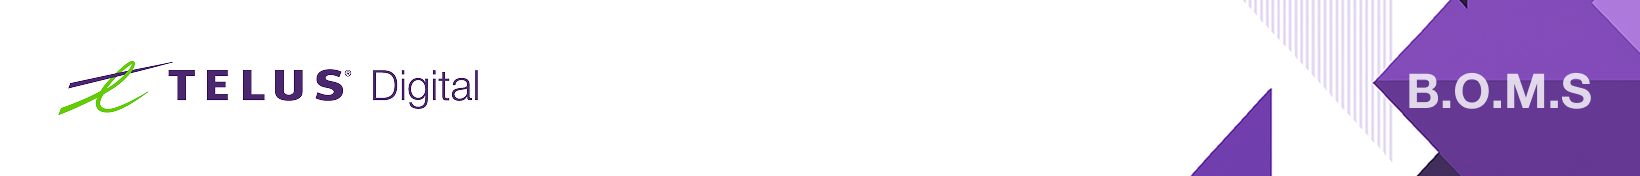
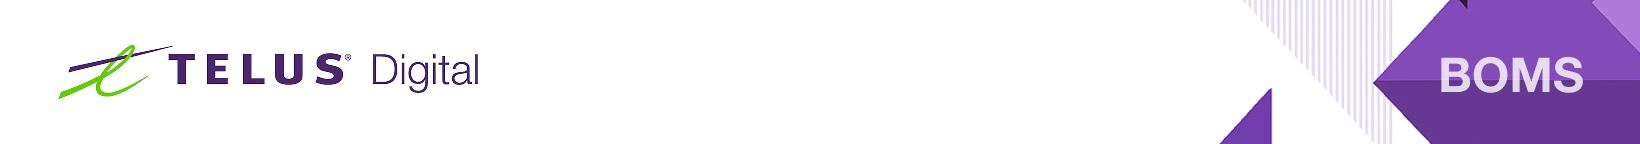
Add files via upload

diff --git a/index.html b/index.html
@@ -12,7 +12,7 @@
         </div>
 
         <!-- Header image -->
-        <img src="https://raw.githubusercontent.com/BOMS-Practice/Emailer/refs/heads/BOMS-Practice-patch-1/Header-strip.png" alt="TELUS Digital" width="100%" style="display:block; max-width:100%; height:auto;" onerror="this.style.display='none'; this.previousElementSibling.style.display='block';" />
+        <img src="https://raw.githubusercontent.com/BOMS-Practice/Emailer/refs/heads/BOMS-Practice-patch-1/Header-strip.png" alt="TELUS Digital" width="100%" style="display:block; max-width:100%; height:auto;" />
       </td>
     </tr>
 
@@ -20,7 +20,7 @@
   <td background="https://raw.githubusercontent.com/BOMS-Practice/Emailer/refs/heads/BOMS-Practice-patch-1/Flying_T_Purple_Background_3x%201.png" style="background-color:#7a5db5; background-size:cover; background-repeat:no-repeat; background-position:center; padding:0;">
     <table width="100%" cellpadding="0" cellspacing="0">
       <tr>
-        <td valign="top" align="left" style="width:70%; padding:34px 32px;">
+        <td valign="top" align="left" style="width:70%; padding:32px 24px;">
           <div style="display:inline-block; background: linear-gradient(90deg, #4B286D 0%, #E53293 100%); color:#FFF; font-family:'Helvetica Neue', Helvetica, Arial, sans-serif; font-size:14px; font-weight:500; text-align:center; padding:4px 8px; border-radius:2px;">
             # TELUS DIGITAL PRACTICE
           </div>
@@ -32,30 +32,33 @@
             Business Operations Modernization & Support
           </p>
         </td>
-        <td valign="bottom" align="right" style="width:30%; padding:0; vertical-align:bottom;">
-          <img src="https://raw.githubusercontent.com/BOMS-Practice/Emailer/refs/heads/BOMS-Practice-patch-1/PolarBear.png" width="241" height="200" style="display:block; margin-bottom:-18px; transform: scaleX(-1);" />
+        <td valign="bottom" align="right" style="width:30%; padding-right:16px; vertical-align:bottom;">
+          <img src="https://raw.githubusercontent.com/BOMS-Practice/Emailer/refs/heads/BOMS-Practice-patch-1/PolarBear.png" width="230" height="182" style="display:block; " />
         </td>
       </tr>
     </table>
   </td>
 </tr>
 
+
     <!-- Who We Are -->
     <tr>
       <td style="padding:24px 24px 0px 24px;">
         <h3 style="color:#4B286D; font-size:16px; font-family: 'Helvetica Neue', Helvetica, Arial, sans-serif; font-weight: 700; line-height: 100%; text-transform:uppercase; margin:0 0 8px;">Who Are We?</h3>
-        <p style="font-size:20px; color:#2C2E30; line-height:1.2; font-family: 'Helvetica Neue', Helvetica, Arial, sans-serif; font-weight: 400;">
+        <p style="font-size:16px; padding-right: 48px; color:#2C2E30; line-height:1.2; font-family: 'Helvetica Neue', Helvetica, Arial, sans-serif; font-weight: 400;">
           BOMS Practice delivers end-to-end services across Architecture, Solutioning, and System Engineering to build secure, scalable, and modern technology ecosystems.
-          <br><br>
+        </p>
+          <p style="font-size:16px; padding-right: 48px; color:#2C2E30; line-height:1.2; font-family: 'Helvetica Neue', Helvetica, Arial, sans-serif; font-weight: 400;">
           We align strategy with execution through consulting-led delivery, agile development, and cloud-native solutions.
-          <br><br>
+        </p>
+          <p style="font-size:16px; padding-right: 48px; color:#2C2E30; line-height:1.2; font-family: 'Helvetica Neue', Helvetica, Arial, sans-serif; font-weight: 400;">
           With 24x7 support and legacy modernization via microservices, APIs, and cloud, we drive enterprise agility and continuous innovation.
         </p>
       </td>
     </tr>
 
 <tr>
-  <td style="padding:8px 32px;">
+  <td style="padding:8px 24px;">
     <div style="height:1px; background:#DDE0E5;"></div>
   </td>
 </tr>
@@ -67,12 +70,12 @@
     <table width="100%" cellpadding="0" cellspacing="0">
       <tr>
         <!-- Systems Engineering -->
-        <td valign="top" width="33%" style="padding: 8px;">
+        <td valign="top" width="33%" style="padding: 8px 16px 8px 0;">
           <table width="100%" cellpadding="0" cellspacing="0" style="background-color:#FAFAFA; border-radius:8px; height:100%;  border:1px solid #DDE0E5;">
             <tr>
               <td style="padding: 16px; height:200px; vertical-align:top;">
-                <img src="https://raw.githubusercontent.com/BOMS-Practice/Emailer/refs/heads/BOMS-Practice-patch-1/systems-engineering.png" alt="icon" width="48" height="48" style="display:block; margin-bottom:8px;">
-                <div style="font-size:16px; font-weight: 700; color:#2C2E30; font-family: 'Helvetica Neue', Helvetica, Arial, sans-serif; line-height: 100%;">Systems Engineering</div>
+                <img src="https://raw.githubusercontent.com/BOMS-Practice/Emailer/refs/heads/BOMS-Practice-patch-1/systems-engineering.png" alt="icon" width="48" height="48" style="display:block;">
+                <div style="font-size:16px; font-weight: 700; color:#2C2E30; font-family: 'Helvetica Neue', Helvetica, Arial, sans-serif; line-height: 120%; padding-top: 8px;">Systems Engineering</div>
                 <p style="font-size:16px; color:#414547; margin-top:5px; font-family: 'Helvetica Neue', Helvetica, Arial, sans-serif; font-weight: 400;">
                   Design and maintain robust, scalable systems—custom software, integrations, and legacy modernization tailored to evolving business needs.
                 </p>
@@ -82,12 +85,12 @@
         </td>
 
         <!-- System Support -->
-        <td valign="top" width="33%" style="padding:10px;">
+        <td valign="top" width="33%" style="padding:8px;">
           <table width="100%" cellpadding="0" cellspacing="0" style="background-color:#FAFAFA; border-radius:6px; height:100%;  border:1px solid #DDE0E5;">
             <tr>
               <td style="padding:16px; height:200px; vertical-align:top;">
-                <img src="https://raw.githubusercontent.com/BOMS-Practice/Emailer/refs/heads/BOMS-Practice-patch-1/systems-support.png" alt="icon" width="48" height="48" style="display:block; margin-bottom:8px;">
-                <div style="font-size:16px; font-weight: 700; color:#2C2E30; font-family: 'Helvetica Neue', Helvetica, Arial, sans-serif; line-height: 100%;">System Support</div>
+                <img src="https://raw.githubusercontent.com/BOMS-Practice/Emailer/refs/heads/BOMS-Practice-patch-1/systems-support.png" alt="icon" width="48" height="48" style="display:block;">
+                <div style="font-size:16px; font-weight: 700; color:#2C2E30; font-family: 'Helvetica Neue', Helvetica, Arial, sans-serif; line-height: 120%; padding-top: 8px;">System Support</div>
                 <p style="font-size:16px; color:#414547; margin-top:5px; font-family: 'Helvetica Neue', Helvetica, Arial, sans-serif; font-weight: 400;">
                   Ensure performance, stability, and scalability with end-to-end support—monitoring, incident management, and continuous improvement.
                 </p>
@@ -97,14 +100,14 @@
         </td>
 
         <!-- Operational Transformation -->
-        <td valign="top" width="33%" style="padding:10px;">
+        <td valign="top" width="33%" style="padding:8px 0 8px 16px;">
           <table width="100%" cellpadding="0" cellspacing="0" style="background-color:#FAFAFA; border-radius:6px; height:100%;  border:1px solid #DDE0E5;">
             <tr>
-              <td style="padding:16px; height:204px; vertical-align:top;">
-                <img src="https://raw.githubusercontent.com/BOMS-Practice/Emailer/refs/heads/BOMS-Practice-patch-1/operational-transformation.png" alt="icon" width="48" height="48" style="display:block; margin-bottom:8px;">
-                <div style="font-size:16px; font-weight: 700; color:#2C2E30; font-family: 'Helvetica Neue', Helvetica, Arial, sans-serif; line-height: 100%;">Operational Transformation</div>
+              <td style="padding:16px; height:200px; vertical-align:top;">
+                <img src="https://raw.githubusercontent.com/BOMS-Practice/Emailer/refs/heads/BOMS-Practice-patch-1/operational-transformation.png" alt="icon" width="48" height="48" style="display:block;">
+                <div style="font-size:16px; font-weight: 700; color:#2C2E30; font-family: 'Helvetica Neue', Helvetica, Arial, sans-serif; line-height: 120%; padding-top: 8px;">Operational Transformation</div>
                 <p style="font-size:16px; color:#414547; margin-top:5px; font-family: 'Helvetica Neue', Helvetica, Arial, sans-serif; font-weight: 400;">
-                  Re-engineer processes for better efficiency and customer experience.
+                   Re-engineer processes to boost efficiency, customer experience, automate workflows and foster collaboration.
                 </p>
               </td>
             </tr>
@@ -116,27 +119,27 @@
 </tr>
 
 <tr>
-  <td style="padding:8px 32px;">
+  <td style="padding:8px 24px;">
     <div style="height:1px; background:#DDE0E5;"></div>
   </td>
 </tr>
 
     <!-- Key Strengths -->
 <tr>
-  <td style="padding:8px 24px 24px 24px;">
+  <td style="padding:0 24px 24px 24px;">
     <h3 style="color:#4B286D; font-weight: 700; font-size:16px; text-transform:uppercase; font-family: 'Helvetica Neue', Helvetica, Arial, sans-serif;">Key Strengths</h3>
     <table width="100%" cellpadding="0" cellspacing="0" style="background-color:#F6F6F6; border-radius:8px;   border:1px solid #DDE0E5;">
       <tr>
-        <td valign="top" width="50%" style="padding:20px;">
+        <td valign="top" width="50%" style="padding: 24px 8px 0 24px;">
           <table cellpadding="0" cellspacing="0" style="margin-bottom:20px;">
             <tr>
-              <td valign="top" style="padding-right:14px; padding-top:14px;">
+              <td valign="top" style="padding-right:12px;">
                 <img src="https://raw.githubusercontent.com/BOMS-Practice/Emailer/refs/heads/BOMS-Practice-patch-1/system.png" alt="icon" width="24" height="24">
               </td>
               <td>
                 <div style="font-size:16px; font-weight: 700; color:#2C2E30; font-family: 'Helvetica Neue', Helvetica, Arial, sans-serif;">Mission-Critical System Engineering</div>
                 <div style="font-size:16px; color:#414547;  margin-top:6px; font-family: 'Helvetica Neue', Helvetica, Arial, sans-serif; font-weight: 400;">
-                  Expertise in designing and integrating high-performance, secure, and resilient systems that drive core business functions.
+                  Expertise in designing and integrating high-performance, secure and resilient systems that drive core business functions.
                 </div>
               </td>
             </tr>
@@ -144,13 +147,13 @@
 
           <table cellpadding="0" cellspacing="0" style="margin-bottom:20px;">
             <tr>
-              <td valign="top" style="padding-right:14px; padding-top:14px;">
+              <td valign="top" style="padding-right:12px;">
                 <img src="https://raw.githubusercontent.com/BOMS-Practice/Emailer/refs/heads/BOMS-Practice-patch-1/enterprise.png" alt="icon" width="24" height="24">
               </td>
               <td>
                 <div style="font-size:16px; font-weight: 700; color:#2C2E30; font-family: 'Helvetica Neue', Helvetica, Arial, sans-serif;">Enterprise-Grade Custom Application Development</div>
                 <div style="font-size:16px; color:#414547;  margin-top:6px; font-family: 'Helvetica Neue', Helvetica, Arial, sans-serif; font-weight: 400;">
-                  Agile, cloud-native development of tailored applications that scale seamlessly and deliver measurable business outcomes.
+                  Agile development of tailored applications that scale seamlessly and deliver measurable business outcomes.
                 </div>
               </td>
             </tr>
@@ -158,13 +161,13 @@
 
           <table cellpadding="0" cellspacing="0" style="margin-bottom:20px;">
             <tr>
-              <td valign="top" style="padding-right:14px; padding-top:14px;">
+              <td valign="top" style="padding-right:12px;">
                 <img src="https://raw.githubusercontent.com/BOMS-Practice/Emailer/refs/heads/BOMS-Practice-patch-1/strategic.png" alt="icon" width="24" height="24">
               </td>
               <td>
                 <div style="font-size:16px; font-weight: 700; color:#2C2E30; font-family: 'Helvetica Neue', Helvetica, Arial, sans-serif;">Strategic Legacy Modernization</div>
                 <div style="font-size:16px; color:#414547;  margin-top:6px; font-family: 'Helvetica Neue', Helvetica, Arial, sans-serif; font-weight: 400;">
-                  Transforming legacy platforms into modern, modular architectures using microservices, APIs, and cloud-native principles.
+                  Transforming legacy platforms into modern, modular architectures using microservices, APIs.
                 </div>
               </td>
             </tr>
@@ -172,7 +175,7 @@
 
           <table cellpadding="0" cellspacing="0">
             <tr>
-              <td valign="top" style="padding-right:14px; padding-top:14px;">
+              <td valign="top" style="padding-right:12px;">
                 <img src="https://raw.githubusercontent.com/BOMS-Practice/Emailer/refs/heads/BOMS-Practice-patch-1/support.png" alt="icon" width="24" height="24">
               </td>
               <td>
@@ -185,10 +188,10 @@
           </table>
         </td>
 
-        <td valign="top" width="50%" style="padding:24px;">
+        <td valign="top" width="50%" style="padding: 24px 8px 0 24px;">
           <table cellpadding="0" cellspacing="0" style="margin-bottom:20px;">
             <tr>
-              <td valign="top" style="padding-right:14px; padding-top:14px; padding-top:14px;">
+              <td valign="top" style="padding-right:12px;">
                 <img src="https://raw.githubusercontent.com/BOMS-Practice/Emailer/refs/heads/BOMS-Practice-patch-1/driven-delivery.png" alt="icon" width="24" height="24">
               </td>
               <td>
@@ -200,9 +203,9 @@
             </tr>
           </table>
 
-          <table cellpadding="0" cellspacing="0" style="margin-bottom:24px;">
+          <table cellpadding="0" cellspacing="0" style="margin-bottom:20px;">
             <tr>
-              <td valign="top" style="padding-right:14px; padding-top:14px;">
+              <td valign="top" style="padding-right:12px;">
                 <img src="https://raw.githubusercontent.com/BOMS-Practice/Emailer/refs/heads/BOMS-Practice-patch-1/cloud.png" alt="icon" width="24" height="24">
               </td>
               <td>
@@ -214,9 +217,9 @@
             </tr>
           </table>
 
-          <table cellpadding="0" cellspacing="0">
+          <table cellpadding="0" cellspacing="0" style="margin-bottom:20px;">
             <tr>
-              <td valign="top" style="padding-right:14px; padding-top:14px;">
+              <td valign="top" style="padding-right:12px;">
                 <img src="https://raw.githubusercontent.com/BOMS-Practice/Emailer/refs/heads/BOMS-Practice-patch-1/frameworks.png" alt="icon" width="24" height="24">
               </td>
               <td>
@@ -230,8 +233,8 @@
 
           <table cellpadding="0" cellspacing="0" width="100%">
             <tr>
-              <td align="right" style="padding-top:20px; padding-right:20px;">
-                <img src="https://raw.githubusercontent.com/BOMS-Practice/Emailer/refs/heads/BOMS-Practice-patch-1/key-strengths.png" alt="image" width="100" style="border-radius:8px; opacity:0.3;">
+              <td align="right" style="padding:16px 16px 16px 0;">
+                <img src="https://raw.githubusercontent.com/BOMS-Practice/Emailer/refs/heads/BOMS-Practice-patch-1/key-strengths.png" alt="image" width="110" style="border-radius:8px;">
               </td>
             </tr>
           </table>
@@ -243,7 +246,7 @@
 
     <!-- Tech Stack -->
     <tr>
-  <td style="padding:0 20px;">
+  <td style="padding:0 24px;">
     <table width="100%" cellpadding="0" cellspacing="0" style="background-color:#4B286D; border-radius:10px; padding:20px;">
       <tr>
         <td colspan="2" style="padding-bottom:15px;">
@@ -322,94 +325,9 @@
     </table>
   </td>
 </tr>
-      
-       <!-- Industry Expertise Section -->
-<tr>
-  <td colspan="2" style="padding-top:20px;">
-    <h3 style="color:#ffffff; font-size:16px; font-family:'Helvetica Neue', Helvetica, Arial, sans-serif; font-weight:700; text-transform:uppercase; margin:0 0 10px 0;">
-      Industry Expertise
-    </h3>
-    <table cellpadding="0" cellspacing="0" width="100%">
-      <tr>
-        <!-- Column 1 -->
-        <td valign="top" width="33.33%">
-          <table cellpadding="0" cellspacing="0" width="100%">
-            <tr>
-              <td style="padding:4px 0;">
-                <img src="https://raw.githubusercontent.com/BOMS-Practice/Emailer/refs/heads/BOMS-Practice-patch-1/retail.png" alt="icon" width="24" height="24" style="vertical-align:middle; margin-right:8px;">
-                <span style="font-family:'Helvetica Neue', Helvetica, Arial, sans-serif; font-size:16px; line-height:28px; font-weight:400; color:#FFFFFF;">Retail</span>
-              </td>
-            </tr>
-            <tr>
-              <td style="padding:4px 0;">
-                <img src="https://raw.githubusercontent.com/BOMS-Practice/Emailer/refs/heads/BOMS-Practice-patch-1/ecommerce.png" alt="icon" width="24" height="24" style="vertical-align:middle; margin-right:8px;">
-                <span style="font-family:'Helvetica Neue', Helvetica, Arial, sans-serif; font-size:16px; line-height:28px; font-weight:400; color:#FFFFFF;">eCommerce</span>
-              </td>
-            </tr>
-            <tr>
-              <td style="padding:4px 0;">
-                <img src="https://raw.githubusercontent.com/BOMS-Practice/Emailer/refs/heads/BOMS-Practice-patch-1/banking.png" alt="icon" width="24" height="24" style="vertical-align:middle; margin-right:8px;">
-                <span style="font-family:'Helvetica Neue', Helvetica, Arial, sans-serif; font-size:16px; line-height:28px; font-weight:400; color:#FFFFFF;">Banking</span>
-              </td>
-            </tr>
-          </table>
-        </td>
-
-        <!-- Column 2 -->
-        <td valign="top" width="33.33%">
-          <table cellpadding="0" cellspacing="0" width="100%">
-            <tr>
-              <td style="padding:4px 0;">
-                <img src="https://raw.githubusercontent.com/BOMS-Practice/Emailer/refs/heads/BOMS-Practice-patch-1/media.png" alt="icon" width="24" height="24" style="vertical-align:middle; margin-right:8px;">
-                <span style="font-family:'Helvetica Neue', Helvetica, Arial, sans-serif; font-size:16px; line-height:28px; font-weight:400; color:#FFFFFF;">Media</span>
-              </td>
-            </tr>
-            <tr>
-              <td style="padding:4px 0;">
-                <img src="https://raw.githubusercontent.com/BOMS-Practice/Emailer/refs/heads/BOMS-Practice-patch-1/tech.png" alt="icon" width="24" height="24" style="vertical-align:middle; margin-right:8px;">
-                <span style="font-family:'Helvetica Neue', Helvetica, Arial, sans-serif; font-size:16px; line-height:28px; font-weight:400; color:#FFFFFF;">Tech</span>
-              </td>
-            </tr>
-            <tr>
-              <td style="padding:4px 0;">
-                <img src="https://raw.githubusercontent.com/BOMS-Practice/Emailer/refs/heads/BOMS-Practice-patch-1/health.png" alt="icon" width="24" height="24" style="vertical-align:middle; margin-right:8px;">
-                <span style="font-family:'Helvetica Neue', Helvetica, Arial, sans-serif; font-size:16px; line-height:28px; font-weight:400; color:#FFFFFF;">Health</span>
-              </td>
-            </tr>
-          </table>
-        </td>
-
-        <!-- Column 3 -->
-        <td valign="top" width="33.33%">
-          <table cellpadding="0" cellspacing="0" width="100%">
-            <tr>
-              <td style="padding:4px 0;">
-                <img src="https://raw.githubusercontent.com/BOMS-Practice/Emailer/refs/heads/BOMS-Practice-patch-1/fintech.png" alt="icon" width="24" height="24" style="vertical-align:middle; margin-right:8px;">
-                <span style="font-family:'Helvetica Neue', Helvetica, Arial, sans-serif; font-size:16px; line-height:28px; font-weight:400; color:#FFFFFF;">Fintech</span>
-              </td>
-            </tr>
-            <tr>
-              <td style="padding:4px 0;">
-                <img src="https://raw.githubusercontent.com/BOMS-Practice/Emailer/refs/heads/BOMS-Practice-patch-1/energy.png" alt="icon" width="24" height="24" style="vertical-align:middle; margin-right:8px;">
-                <span style="font-family:'Helvetica Neue', Helvetica, Arial, sans-serif; font-size:16px; line-height:28px; font-weight:400; color:#FFFFFF;">Energy</span>
-              </td>
-            </tr>
-            <tr>
-              <td style="padding:4px 0;">
-                <img src="https://raw.githubusercontent.com/BOMS-Practice/Emailer/refs/heads/BOMS-Practice-patch-1/automotive.png" alt="icon" width="24" height="24" style="vertical-align:middle; margin-right:8px;">
-                <span style="font-family:'Helvetica Neue', Helvetica, Arial, sans-serif; font-size:16px; line-height:28px; font-weight:400; color:#FFFFFF;">Automotive & many more</span>
-              </td>
-            </tr>
-          </table>
-        </td>
-      </tr>
     </table>
   </td>
 </tr>
-    </table>
-  </td>
-</tr>
-
 
 <!-- Focus areas -->
 <tr>
@@ -421,9 +339,6 @@
             Focus Areas
           </h3>
         </td>
-        <!-- <td style="padding: 0; text-align: right; vertical-align: bottom;">
-          <img src="https://raw.githubusercontent.com/BOMS-Practice/Emailer/refs/heads/BOMS-Practice-patch-1/focus.png" alt="focus image" width="110" style="display: block; margin-bottom: -45px; margin-right: -85px;">
-        </td> -->
       </tr>
 
       <tr>
@@ -508,9 +423,6 @@
         </td>
       </tr>
       <tr>
-                <td style="padding: 0; text-align: right; vertical-align: bottom;">
-          <img src="https://raw.githubusercontent.com/BOMS-Practice/Emailer/refs/heads/BOMS-Practice-patch-1/focus.png" alt="focus image" width="110" style="display: block; margin-top: -100px; margin-left: 625px;">
-        </td>
       </tr>
     </table>
   </td>
@@ -525,8 +437,8 @@
             Ready to unlock next-gen operational excellence with B.O.M.S?
           </h3>
           <p style="font-family:'Helvetica Neue', Helvetica, Arial, sans-serif; color: rgba(255, 255, 255, 0.5); font-weight: 400; font-style: normal; font-size: 16px; line-height: 120%; letter-spacing: 0%; margin: 10px 0 0 0;">
-  Let’s connect and explore how we can modernize your business operations at --
-</p>
+            Let’s connect and explore how we can modernize your business operations at --
+          </p>
           <p style="font-family:'Helvetica Neue', Helvetica, Arial, sans-serif; font-weight:700; font-style:normal; font-size:16px; line-height:100%; letter-spacing:0%; margin:10px 0 0 0;">
           <img src="https://raw.githubusercontent.com/BOMS-Practice/Emailer/refs/heads/BOMS-Practice-patch-1/email.png" alt="Email" width="24" style="vertical-align:middle; margin-right:6px;">
           <a href="mailto:TDS_BOMS_Practice@telusdigital.com" style="color:#ffffff; font-weight:500; text-decoration:none;">
@@ -546,7 +458,7 @@
                     </td>
                     <td style="padding-left:6px;">
                         <span style="font-family:'Helvetica Neue', Helvetica, Arial, sans-serif; font-weight:400; font-style:italic; font-size:16px; color:#ffffff;">
-                        and stay tuned for<br>more updates
+                        stay tuned for<br>more updates
                       </span>
                     </td>
                   </tr>
@@ -570,7 +482,7 @@
 <!-- Footer -->
 <tr>
   <td background="https://raw.githubusercontent.com/BOMS-Practice/Emailer/refs/heads/BOMS-Practice-patch-1/footerimage.png"
-      style="background-color:#E8E2F2; background-size:cover; background-repeat:no-repeat; background-position:center; padding: 10px 0; text-align:center; height: 30px; border:1px solid #DDE0E5;">
+      style="background-color:#E8E2F2; background-size:cover; background-repeat:no-repeat; background-position:center; padding: 10px 0; text-align:center; height: 50px; border:1px solid #DDE0E5;">
     <table width="100%" border="0" cellspacing="0" cellpadding="0">
       <tr>
         <td align="center" style="font-family:'Helvetica Neue', Helvetica, Arial, sans-serif;
